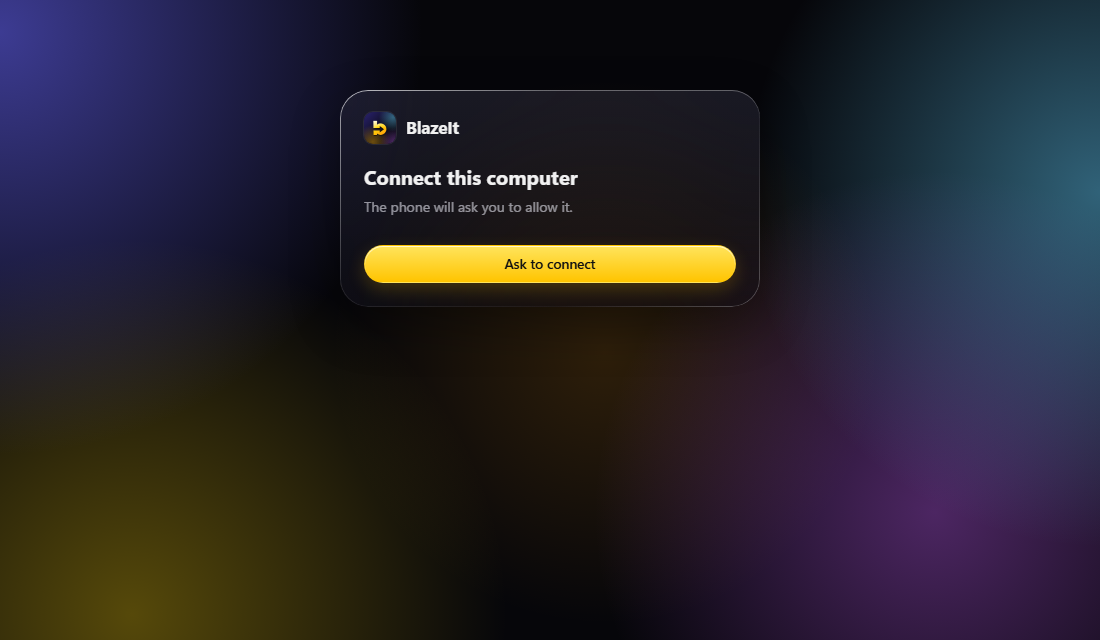
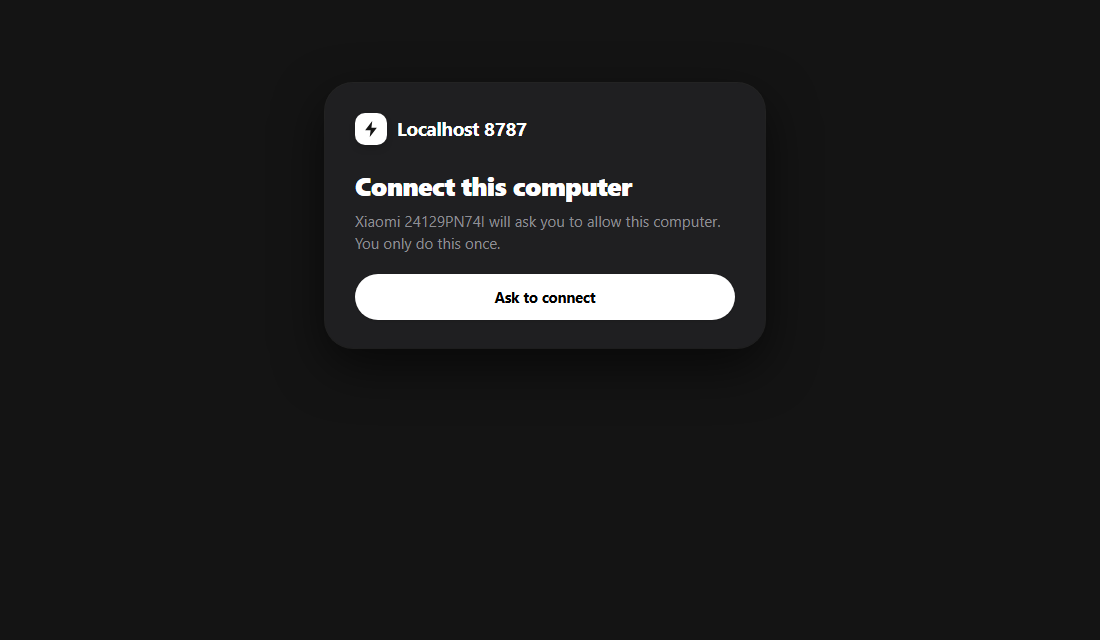
README and screenshots for the new look; faster over the air
New screenshots of both styles on the phone and the page. The speed section gains what was
found about hotspot speed: the hotspot runs 80 MHz Wi-Fi 6 on the phone's router channel, the
router itself only 20 MHz, and India opened 6 GHz in January 2026 though the phone has not.

diff --git a/README.md b/README.md
@@ -1,8 +1,8 @@
 <p align="center">
-  <img src="docs/images/icon.png" width="112" alt="BlazeIt icon">
+  <img src="docs/images/icon.png" width="112" alt="Localhost 8787 icon">
 </p>
 
-<h1 align="center">BlazeIt</h1>
+<h1 align="center">Localhost 8787</h1>
 
 <p align="center">
   Your Android phone becomes a small, private server. Your laptop opens it in a browser.<br>
@@ -18,9 +18,9 @@
 | | Phone → laptop | Laptop → phone | Laptop internet |
 | :--- | ---: | ---: | :--- |
 | **USB-C cable (USB 3), USB tethering** | **224–235 MB/s** | **257–271 MB/s** | Yes |
-| BlazeIt direct link (the phone's own offline network) | 55–101 MB/s | 54–115 MB/s | No |
+| Localhost 8787 direct link (the phone's own offline network) | 55–101 MB/s | 54–115 MB/s | No |
 | The phone's hotspot (hotspot mode) | 59–68 MB/s | 64–65 MB/s | Yes, through the phone |
-| Through the home router the two were sharing | 2.5 MB/s | 3.3 MB/s | Yes |
+| Through the home router the two were sharing (a 20 MHz channel) | 2.5 MB/s | 3.3 MB/s | Yes |
 
 Measured on 24–25 September 2026 between a Xiaomi 15 (Android 16) and a Realtek Wi-Fi 7 laptop,
 with the phone generating and discarding the data so only the link counts; the cable's upper
@@ -33,11 +33,42 @@ link), which is as far as a phone-hosted network goes here; the spread between r
 **A USB 3 cable is the fastest way by far**, and with the phone's Wi-Fi off the laptop gets the
 phone's mobile data over the same cable while files move at full speed.
 
-**The direct link** is a Wi-Fi network the phone hosts for itself: tap *Direct link* on Home (or
-on the page) and the phone starts it, with no trip to Settings and no internet shared. The laptop
-helper sees it, moves the laptop onto it, and moves it back to your Wi-Fi when you stop. One hop,
-no router taking turns, nobody else on the channel. Files of any size, resumable, over several
-connections at once, straight to disk.
+**The direct link** is a Wi-Fi network the phone hosts for itself: choose it in *Settings →
+Speed → Laptop link* and tap *Start*, and the phone starts it, with no trip to Android's
+settings and no internet shared. The laptop helper sees it, moves the laptop onto it, and
+moves it back to your Wi-Fi when you stop. One hop, no router taking turns, nobody else on the
+channel. Files of any size, resumable, over several connections at once, straight to disk.
+
+Home on the phone shows every way in at once, fastest first (*USB 250 MB/s · Hotspot 65 MB/s ·
+Wi-Fi*), with the address of the one picked in large type; one that is not up opens the setting
+that brings it up. With the helper running the laptop moves to the fastest by itself, and the
+page's Home says which it is on (*USB cable · up to 250 MB/s*, or *Wi-Fi · USB is faster*).
+
+### Faster over the air (hotspot mode)
+
+Checked on 26 September 2026 on this pair, with the phone's hotspot running:
+
+- **Where it stands.** The phone's hotspot runs on 5 GHz, channel 36, **80 MHz, Wi-Fi 6**,
+  two streams: a 1201 Mbps link. 59–68 MB/s through it is about half of that, which is normal
+  for a phone as the access point. The laptop's TCP (auto-tuning, CUBIC, RSS) needs nothing.
+- **The phone's own Wi-Fi shares the hotspot's radio.** With the phone on the home router, the
+  hotspot has to sit on the router's channel and take turns with that link, and the laptop's
+  internet crosses the same channel twice. Turning the phone's Wi-Fi off (the laptop then gets
+  the phone's mobile data) lets the hotspot pick its own channel and keep the air to itself;
+  measure before and after with *Settings → Measure*.
+- **Distance.** Within a metre or two, not face down or under the laptop's lid; the
+  monitor shows the signal on both ends.
+- **On the laptop** (Device Manager → the Wi-Fi adapter → Advanced): *Leisure Power Save*
+  off and *Roaming Aggressiveness* lowest, so the adapter neither dozes nor scans mid-transfer.
+- **The home router** here runs a **20 MHz** channel: both devices link to it at only
+  286 Mbps. Set it to 80 MHz for Wi-Fi mode (Airtel locks this on some routers; their support
+  can change it).
+- **6 GHz is coming.** India opened 5925–6425 MHz to Wi-Fi on 20 January 2026 and the laptop
+  can use it, but the phone's firmware still offers no 6 GHz channels for India. When an
+  update adds them, a 6 GHz hotspot on a clean, wider channel is the next step up.
+- **Not worth it:** a second link the other way (61 → 65 MB/s), 160 MHz on 5 GHz (Android
+  discards the request), Wi-Fi 7 hosting (off in the vendor's configuration), Wi-Fi Direct
+  (35–42 MB/s), and more connections (eight already fill the link).
 
 <p align="center">
   <img src="docs/images/web-home.png" width="760" alt="Home: clipboard, files and the monitor">
@@ -60,31 +91,32 @@ connections at once, straight to disk.
 
 ## Features, one by one
 
-### 1. One clean look, on both sides
+### 1. Two styles, on both sides
 
-The app and the page look the same, and at home next to the phone's own apps: solid
-surfaces on a quiet background, big clear type, and colour used the way a home screen uses
-it, as small bright tiles that say what a thing is. On the phone, Home opens on a yellow
-card with the address in large type, then the *Direct link* and *Send files* tiles. On the
-page, Home is one line saying which phone and over what link, then the clipboard and
-sending files side by side; the direct link and hotspot are the phone's to start and show.
+The app and the page share one style, picked in *Settings → Appearance* on the phone or on
+the page; the phone and every open page follow at once.
 
-**Automatic, light or dark.** It follows the phone (or the computer) by default; dark is a
-soft graphite. Pick one in *Settings → Appearance* on the phone or on the page; the phone and
-every open page follow. Two switches sit beside it, shared the same way:
+- **Studio** (the default), after Apple Music. White or black, heavy large titles, the tabs
+  along the bottom. Home opens on a card: the address in large type with a hard shadow (a
+  tap copies it), copy and QR code under it, the on/off switch beside them, and the ways in,
+  fastest first. Then the clipboard and a shelf of square artwork for sending files, phones and
+  control. On the page, a sidebar.
+- **Theatre**, after the Apple TV app. The tabs are pills along the top, see-through over the
+  dark hero and solid once the page scrolls past it. Home opens on that hero, under the status
+  bar on the phone, laid out the same way, then the clipboard and a shelf of wide cards.
 
-- **Glass.** The tab bar and the monitor on the phone, and the sidebar, player and pop-ups on
-  the page, float as frosted glass over what is behind them, in the manner of Apple's bars:
-  a soft blur, a thin lens band that bends the content at the rim (Android 13 and later, and
-  Chrome or Edge on the page), one bright edge, and a bubble under the tab you are on. Off,
-  they are plain solid bars, which cost nothing.
-- **OLED black.** Dark mode as pure black, for OLED screens.
+On the phone, **swipe sideways** to move between Home, Phones, Control and Settings: the page
+slides with a little depth, and the tab's highlight follows your finger.
 
-*The screenshots below are from 0.4 and still show the old glass look.*
+**Colour.** Under the styles, one row: **Automatic**, each style's own palette, or red
+(Apple Music's pink-red), orange, yellow, green, mint, blue
+or purple. The colour marks the tab you are on, the main buttons and the card at the top;
+everything else keeps its own colours, with no coloured glow. **Automatic, light or dark** sits
+under that. All three are shared between the phone and every open page.
 
-| Home | Monitor | Phones | Control |
-| --- | --- | --- | --- |
-| <img src="docs/images/phone-home.png" width="190"> | <img src="docs/images/phone-monitor.png" width="190"> | <img src="docs/images/phone-phones.png" width="190"> | <img src="docs/images/phone-control.png" width="190"> |
+| Home | Home, Theatre | Phones | Control | Settings |
+| --- | --- | --- | --- | --- |
+| <img src="docs/images/phone-home.png" width="160"> | <img src="docs/images/phone-home-theatre.png" width="160"> | <img src="docs/images/phone-phones.png" width="160"> | <img src="docs/images/phone-control.png" width="160"> | <img src="docs/images/phone-settings.png" width="160"> |
 
 ### 2. Connect a computer (approve on the phone)
 
@@ -108,11 +140,12 @@ Everything you move lives on one screen, on both sides.
   files* / *Choose a folder*. A folder arrives as the same folder, subfolders included.
   Uploads are **resumable** and large files go up over **parallel connections** into one
   pre-allocated file.
-- **Files to the laptop.** Share anything to BlazeIt from any app, or tap *Send files to
+- **Files to the laptop.** Share anything to Localhost 8787 from any app, or tap *Send files to
   the computer* on Home. They show up under *On the phone* in the browser. Downloads use
   byte ranges, so they resume and, through the helper, run over several connections.
 - **Nothing shared can be deleted**, from the page or the app: a shared file goes only when
-  it is deleted on the phone itself, and the list drops it then.
+  it is deleted on the phone itself, and the list drops it then. On the phone, *Clear* (or the
+  × on a file) under *On the phone* takes files off the list, never off the phone.
 
 ### 4. Browse the phone from the laptop
 
@@ -127,19 +160,24 @@ the laptop. It stays off until you allow it on the phone (*Settings → Laptop a
 this phone*, which opens Android's "All files access" screen). Over a USB 3 cable a 196 MB
 video came across at 217 MB/s on one connection.
 
+The preview is full screen on black, like Photos: the picture centred, round arrows over its
+sides (gone at either end), and where you are in the folder at the foot.
+
+<img src="docs/images/web-viewer.png" width="620" alt="A photo from the phone, previewed">
+
 ### 5. Clipboard that follows you
 
 With the laptop helper running, whatever you copy on the laptop is ready to paste on the
 phone, and whatever you copy on the phone lands in the laptop's clipboard as soon as you open
-BlazeIt or tap its **Send clipboard** quick-settings tile (Android lets an app read the
+Localhost 8787 or tap its **Send clipboard** quick-settings tile (Android lets an app read the
 clipboard only while it is on screen). Both directions took about half a second in testing.
 Text, pictures and files: a screenshot copied on Windows is ready to paste on the phone, and a
 photo copied on the phone pastes into apps on the laptop, or into a folder as a file. It works
-with BlazeIt closed, since the server runs in the background: what the laptop copies lands on
+with Localhost 8787 closed, since the server runs in the background: what the laptop copies lands on
 the phone's clipboard, **every screenshot you take goes over by itself** (the way a keyboard
 spots new screenshots), and selected text goes over at once with **Send to laptop** in the
 selection menu of any app. Android lets only the keyboard and the app on screen read copied
-text; BlazeIt gets round that the way KDE Connect does (the system log says when a copy is
+text; Localhost 8787 gets round that the way KDE Connect does (the system log says when a copy is
 made, and a blink-long invisible window reads it), so **whatever you copy in any app is on the
 laptop at once**. That needs two permissions an app cannot take for itself, set up once with
 the phone on USB:
@@ -149,9 +187,9 @@ adb shell pm grant dev.periy.bridge android.permission.READ_LOGS
 adb shell appops set dev.periy.bridge SYSTEM_ALERT_WINDOW allow
 ```
 
-then open BlazeIt and choose **Allow** when Android asks about device logs (it asks again after
+then open Localhost 8787 and choose **Allow** when Android asks about device logs (it asks again after
 the phone restarts). *Settings → Laptop access → Copies from any app* shows what is missing.
-Without it, copied text goes over when you next open BlazeIt.
+Without it, copied text goes over when you next open Localhost 8787.
 *Settings → Laptop access → Sync clipboard automatically* turns it off.
 
 ### 6. A live monitor over every screen
@@ -175,7 +213,7 @@ panel on the right.
 Ping is measured by the page and the helper and shared with the phone, so both monitors
 show it.
 
-<img src="docs/images/web-home.png" width="760" alt="Home with the monitor docked on the right">
+<img src="docs/images/web-home-theatre.png" width="760" alt="Home in Theatre, on Wi-Fi: the badge says a USB cable is faster">
 
 **Nothing runs that nobody is using.** The phone only samples traffic while a monitor is
 on screen somewhere. The page stops polling when its tab is hidden. A paused player stops
@@ -186,9 +224,11 @@ closed. The screen-on and low-latency Wi-Fi locks are held only while Control is
 
 ### 7. The direct link
 
-*Direct link* on Home starts a private Wi-Fi network hosted by the phone (Android's
-local-only hotspot, started by the app itself). Its card shows the network's name, password
-and address, and a QR code a phone camera joins from.
+*Settings → Speed → Laptop link → Direct link*, then *Start*, begins a private Wi-Fi network
+hosted by the phone (Android's local-only hotspot, started by the app itself); *Direct* in the
+picker on Home does the same. Its card shows the network's name, password and address, and a
+QR code a phone camera joins from. Android runs one hotspot at a time, so while the phone's own
+hotspot is on, the row says so and opens the setting that turns it off.
 
 - **With the laptop helper running**, the laptop joins it by itself within a second or two,
   the page carries on over it without a reload, and the laptop goes back to its previous
@@ -201,8 +241,9 @@ What was tried and measured before settling on this, so nobody repeats it blindl
 - **Pinning a channel** comes up at 40 MHz, half the width. Leaving the channel to the phone
   gives 80 MHz, so the app does that.
 - **160 MHz, 6 GHz and Wi-Fi 7** are not reachable: this phone's hotspot offers no 6 GHz
-  channels for its country (IN), the laptop's Mobile Hotspot does not support 6 GHz, and the
-  phone's hotspot runs Wi-Fi 6.
+  channels for its country (IN; the band opened there in January 2026, the firmware has not
+  caught up), the laptop's Mobile Hotspot does not support 6 GHz, and the phone's hotspot
+  runs Wi-Fi 6.
 - **Two links at once** (laptop on the phone's direct link *and* phone on the laptop's
   hotspot) measured 61 MB/s on one link and 65 MB/s on both. Each device has one Wi-Fi
   radio and puts its hotspot on the channel it is already connected on, so both links end up
@@ -218,7 +259,7 @@ you saved on the laptop is joined as it is and left alone.
 
 ### 8. Phone to phone
 
-The **Phones** tab lists other phones running BlazeIt on the same Wi-Fi (or on one
+The **Phones** tab lists other phones running Localhost 8787 on the same Wi-Fi (or on one
 phone's hotspot), found automatically. Tap **Connect**, allow it on the other phone
 with the same 4-digit code, and from then on send files or the clipboard text with one
 tap. Files go over the same parallel, resumable upload the browser uses. If a router
@@ -234,7 +275,9 @@ needs two phones.
 ### 9. The phone as the laptop's trackpad and keyboard
 
 The **Control** tab is one large trackpad with Windows gestures, plus the phone's own
-keyboard typing straight into the laptop.
+keyboard typing straight into the laptop. The pad opens **locked** (a tap unlocks it), so a
+swipe across the middle of the screen changes tab instead of moving the pointer; it locks
+again whenever you leave the tab.
 
 | Gesture | Does |
 | --- | --- |
@@ -259,6 +302,8 @@ the background.
 window on the laptop, at full frame rate with its sound, to use with the laptop's mouse and
 keyboard. The helper runs [scrcpy](https://github.com/Genymobile/scrcpy) over adb for it,
 downloading the official release by itself the first time; the phone needs USB debugging on.
+It uses the cable whenever one is plugged in; over Wi-Fi the page says a USB cable is faster
+(sharper, smoother, with less lag).
 
 ### 10. The phone as the laptop's second screen
 
@@ -294,11 +339,17 @@ and the laptop. *Settings → Laptop videos here* on the phone turns it off.
 
 ### 12. The phone's notifications on the laptop
 
-The page's **Alerts** tab lists the phone's notifications as they come, with each app's name
-and icon, and new ones pop up on the page (as desktop notifications when the tab is in the
-background). Reply to a message, press a notification's own buttons (*Mark as read*), or
-dismiss it, and the same happens on the phone. It needs *Notification access* for BlazeIt,
-which *Settings → Notifications on the laptop* opens, and it works with BlazeIt closed.
+The page's **Alerts** tab lists all of the phone's notifications as they come, with each app's
+name and icon, drawn as Android draws them: each its own rounded card, folded to one line, a
+click to open the full text, the reply box and its buttons, another to fold it back. Ongoing
+ones (music, downloads, services) are listed apart under *Ongoing* and never pop up. New ones
+pop up on the page (as desktop notifications when the tab is in the background). Reply to a
+message, press a notification's own buttons (*Mark as read*), or dismiss it, and the same
+happens on the phone. It needs *Notification access* for Localhost 8787, which *Settings →
+Notifications on the laptop* opens, and it works with Localhost 8787 closed; the app asks
+Android to restart the listener whenever the server starts, in case an update stopped it.
+
+<img src="docs/images/web-alerts.png" width="620" alt="Alerts: the phone's notifications, folded">
 
 ### 13. The laptop helper (one file, nothing installed)
 
@@ -339,19 +390,38 @@ with a real transfer: close means the network is the ceiling, far below means st
 
 ### 15. Stream your music library
 
-The **Music** tab lists every song on the phone, with search and an album view. Tracks
+The **Music** tab opens on your albums; a cover lifts off its own shadow under the pointer,
+and a click opens the album with its tracks listed under it. Songs lists every track, with
+search, each with its genre by the title and the kind of file on the right. Chips over the
+list pick one genre (Hip-Hop/Rap, Rock, Film Soundtracks...): the albums and songs narrow to
+it, and Play or Shuffle plays only that genre. Tracks
 stream straight from the phone with range requests: playback starts after the first few
 kilobytes, and seeking only fetches what you jump to. The next two tracks load while the
 current one plays, so skipping is instant. FLAC, MP3, AAC, OGG, Opus and WAV all play.
 Media keys, the Windows media overlay, shuffle and repeat all work.
 
-The now-playing turntable uses the album cover as the record's label: the arm drops when
-you press play, the disc spins, and pausing freezes it exactly where it is. The player
-sits along the bottom of the page.
+**Play in sync.** The Sync button in the player lists the phone's speaker and every other
+computer with the page open; switch any of them on and they play the same song, in step.
+Each device loads the whole song into memory (and the next one ahead), and plays it by its
+own audio hardware's clock; the phone keeps the time they agree on, and each page measures
+how far its clock is from it. Changes are set a moment ahead, so every device makes them
+at the same instant: pages schedule the song on the audio engine for that exact moment, and
+the phone writes the samples itself, knowing from its output when each one is heard. A
+difference that holds is taken up one sample at a time, so nothing is skipped or sped up.
+In tests two pages start within 0.1 ms of each other, and the phone holds within a few
+milliseconds of the clock. Pause, seek or pick a song on any of them and the rest follow;
+next and previous go to the one whose queue it is. The phone plays its own file, nothing
+streamed. A browser will not start sound on a page nobody has clicked, so such a page shows
+a one-click Join.
 
-| Light | Dark |
+One panel sits at the top: the album you opened, or else what is playing, in a colour taken
+from the cover. The cover and the title cast hard, offset shadows, so they stand clear of
+the colour. In the player along the bottom, a small equalizer beside the title moves with
+the song, read live from the audio.
+
+| Studio, red | Theatre, dark |
 | --- | --- |
-| <img src="docs/images/web-music.png" width="420" alt="Music, aurora"> | <img src="docs/images/web-oled.png" width="420" alt="Music, OLED black"> |
+| <img src="docs/images/web-music.png" width="420" alt="Music in Studio with red"> | <img src="docs/images/web-music-dark.png" width="420" alt="Music in Theatre, dark"> |
 
 Albums open like iOS Music: the cover large, the artist, the length, and Play or Shuffle.
 
@@ -363,20 +433,20 @@ Albums open like iOS Music: the cover large, the artist, the length, and Play or
 
 1. Download the APK from [Releases](../../releases/latest) and install it on the phone
    (Android 10 or later; allow installing from your browser or file manager when asked).
-2. Open **BlazeIt**, go to **Settings** and pick a **destination folder** for received files.
+2. Open **Localhost 8787**, go to **Settings** and pick a **destination folder** for received files.
    Allow notifications, and allow music access if you want the Music tab.
 3. Flip the switch on **Home**. The phone shows an address such as `http://192.168.1.11:8787`.
 4. Open that address on the laptop and click **Ask to connect**. Tap **Allow** on the phone.
 5. For full speed, laptop control and the laptop side of the monitor, open **Settings**
    on the page, get **blazeit-pc.bat**, and run it.
 
-**For the most speed, tap Direct link** on the phone's Home with the
-laptop helper running. Through a home router every byte crosses the air twice and competes
-for the router's time; the direct link is one hop on a network of its own. It needs no
-internet at all.
+**For the most speed without a cable, use the phone's hotspot or the direct link** (*Settings →
+Speed → Laptop link*) with the laptop helper running. Through a home router every byte
+crosses the air twice and competes for the router's time; the phone's own network is one hop.
+The hotspot keeps the laptop online through the phone; the direct link needs no internet at all.
 
 **Fastest of all: a USB-C cable.** Plug the phone into the laptop and turn on USB tethering
-(Settings → *USB-C cable* → *Set up*); BlazeIt shows the cable's address on
+(Settings → *USB-C cable* → *Set up*); Localhost 8787 shows the cable's address on
 Home. A cable has no radio to share and no interference. The page's Settings has the same
 steps. For developers, `tools/blazeit-usb.bat` (or `.sh`) forwards the port with `adb` instead.
 
@@ -387,7 +457,7 @@ steps. For developers, `tools/blazeit-usb.bat` (or `.sh`) forwards the port with
 ```
  Phone (Android app)                                  Laptop
  ┌────────────────────────────────────────┐          ┌─────────────────────────────┐
- │ Foreground service                     │          │ Browser: the BlazeIt page   │
+ │ Foreground service                     │          │ Browser: the Localhost 8787 page   │
  │  └ Ktor server on :8787                │  Wi-Fi   │  served by the phone        │
  │     ├ page, pairing, SSE events        │◄────────►│                             │
  │     ├ tus uploads (parallel windows)   │  or USB  │ blazeit-pc.bat (optional)   │
@@ -461,7 +531,6 @@ app/src/main/
   assets/
     bridge.html            the page the laptop opens (HTML, CSS, JS in one file)
     blazeit-pc.bat         the laptop helper, served by the page
-    vinyl/                 record and light-sheen images for the turntable
   java/dev/periy/bridge/
     BridgeApp.kt           app-wide objects
     server/
@@ -472,6 +541,8 @@ app/src/main/
       Peers.kt             finding, pairing with and sending to other phones
       Pairing.kt  Auth.kt  approve-on-phone pairing, sessions, device list
       Music.kt             music library, covers, range streaming
+      CoverFinder.kt       covers for albums without one, looked up one at a time
+      SyncPlay.kt          playing in step: the shared clock, and the phone's own player
       Control.kt           trackpad event stream, laptop volume, discovery beacon
       Events.kt            the shared clipboard and its history, the event stream
       ClipWatch.kt         copies in any app, noticed from the system log
@@ -480,7 +551,7 @@ app/src/main/
       PhoneFiles.kt        browsing the phone, thumbnails and previews
     service/BridgeService.kt   foreground service, notification, locks
     ui/                    Compose: Home, Phones, Control, Settings, monitor overlay, theme
-      Glass.kt             the glass bars: backdrop blur and the lens shader
+      Theme.kt             the two styles: palettes, depth, and the parts drawn each style's way
       SecondScreen.kt      the laptop's screen, full screen on the phone
       VideoPip.kt          laptop videos in picture-in-picture
     net/NetInfo.kt         which addresses the phone can be reached on
@@ -494,9 +565,10 @@ docs/images/               icon and screenshots
 ## Known limits
 
 - Wi-Fi 6 at 80 MHz on 5 GHz is the ceiling for any phone-hosted link on this pair: no 6 GHz
-  channels for the country (hotspot and Wi-Fi Direct alike), Wi-Fi 7 hosting is off in the
-  vendor's configuration, and a 160 MHz request from an app is accepted and then discarded by
-  Android. A second, reverse link does not add speed. For more, use a USB 3 cable.
+  channels for the country in the phone's firmware yet (hotspot and Wi-Fi Direct alike, though
+  India opened the band in January 2026), Wi-Fi 7 hosting is off in the vendor's configuration,
+  and a 160 MHz request from an app is accepted and then discarded by Android. A second,
+  reverse link does not add speed. For more, use a USB 3 cable.
 - While the laptop is on the direct link it has no internet; it comes back when the link stops.
 - Phone to phone over a direct link asks for approval on the sending phone each time, because
   Android gives the network a new name every time it starts.
@@ -505,7 +577,6 @@ docs/images/               icon and screenshots
   it at 60 Hz whatever the app asks for.
 - *Play on phone* works on pages with an ordinary video element (YouTube and the like), not on
   DRM-protected streaming services.
-- Firefox shows the glass without the lens band at its rim.
 - Windows ignores simulated input in administrator windows unless the helper itself runs
   as administrator.
 - Apple Lossless (ALAC) does not play in browsers; other formats do.
